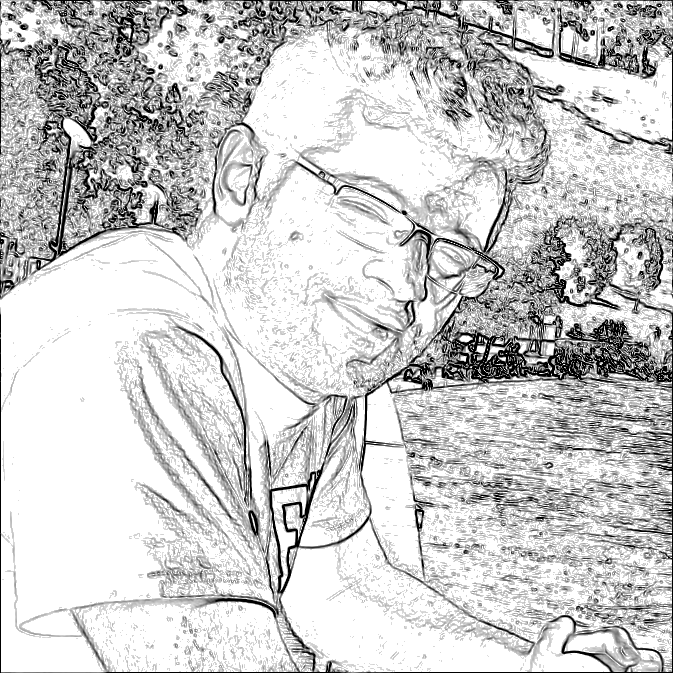
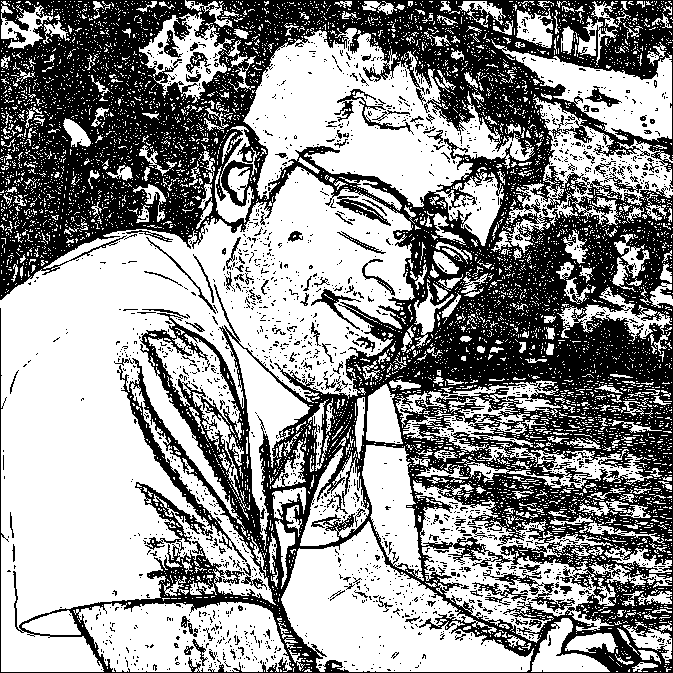
pencil edges filter fixed

diff --git a/lib/pencil_edges.dart b/lib/pencil_edges.dart
@@ -11,6 +11,8 @@ class PencilEdges extends Filter {
       for (var j = 0; j < 3; j += 1) {
         if (img_b[i + j] > threshold) {
           img_b[i + j] = 255;
+        } else {
+          img_b[i + j] = 0;
         }
       }
     }
@@ -22,6 +24,6 @@ class PencilEdges extends Filter {
   void apply({int sigma = 9}) {
     var edges = sobel(grayscale(image.clone()));
     var inverseEdges = invert(edges.clone());
-    output = threshold(inverseEdges, 220);
+    output = threshold(inverseEdges, 210);
   }
 }
